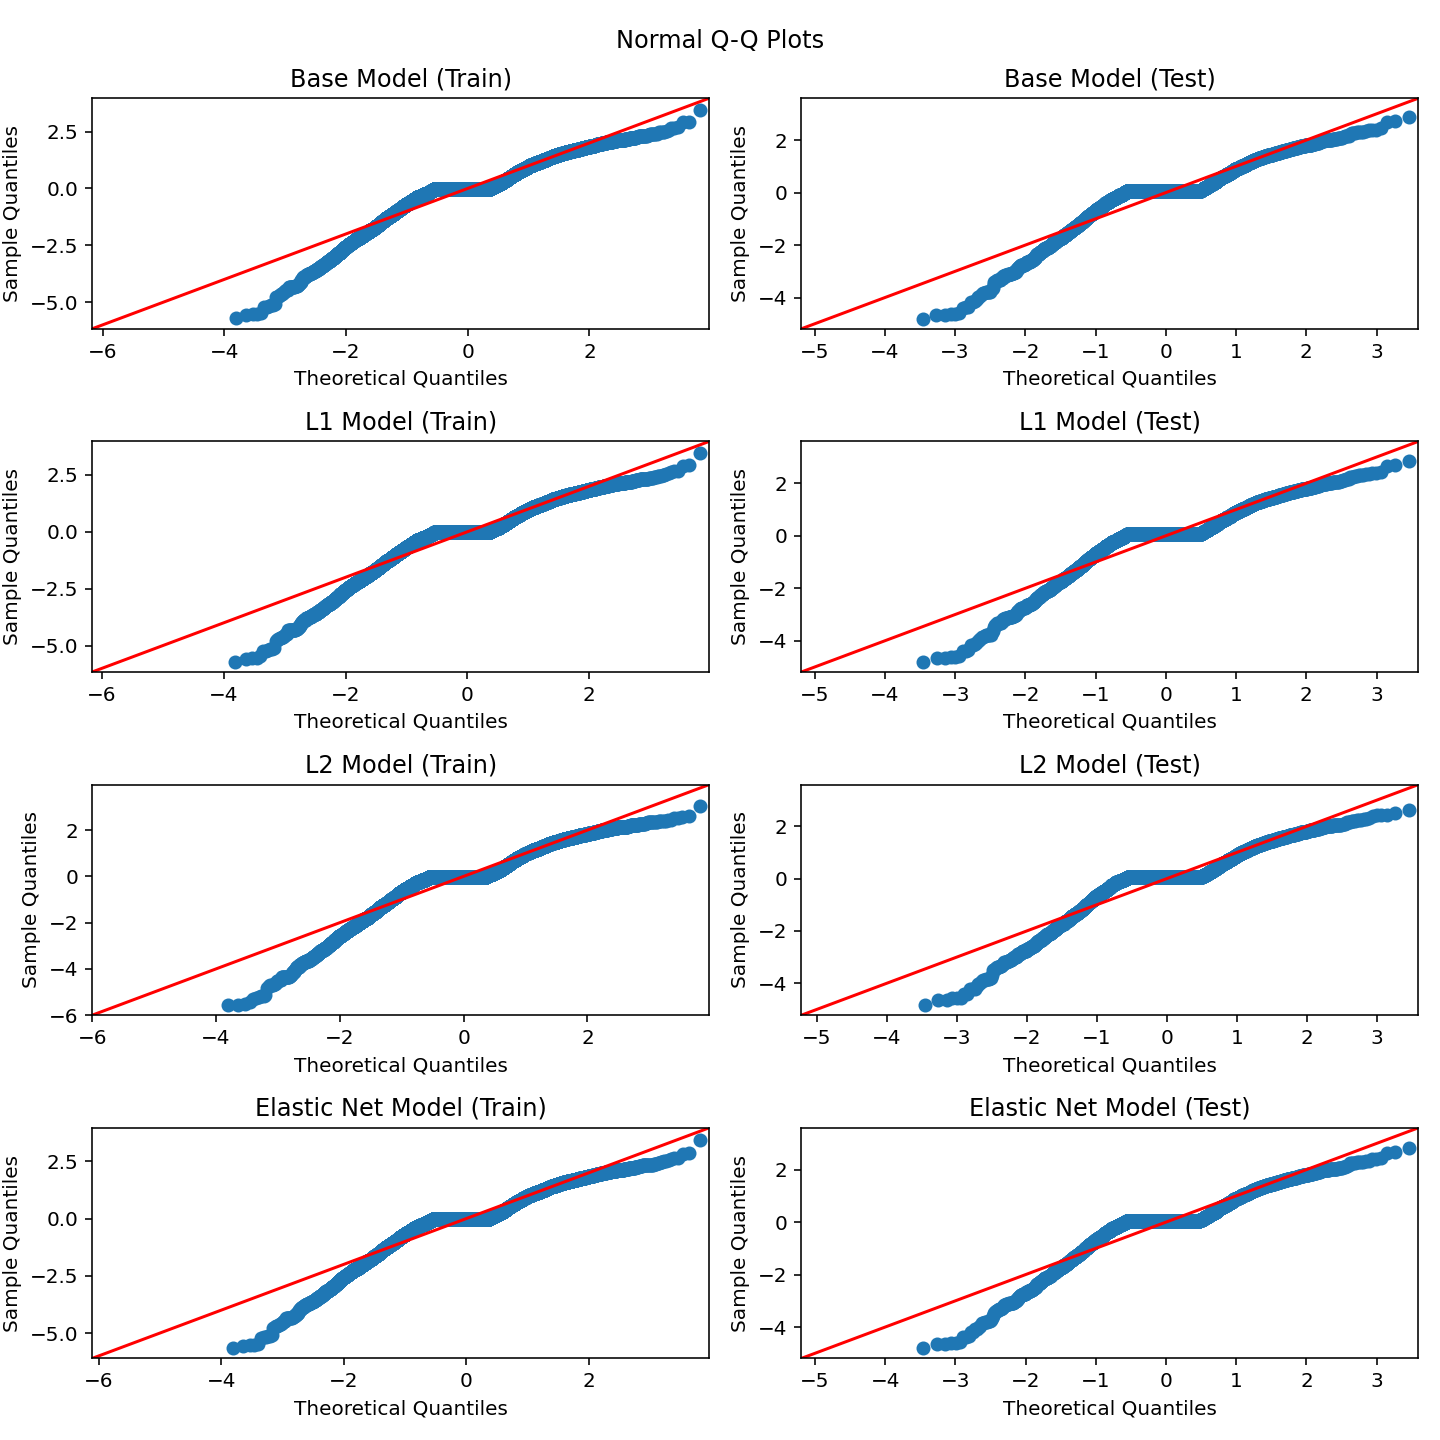
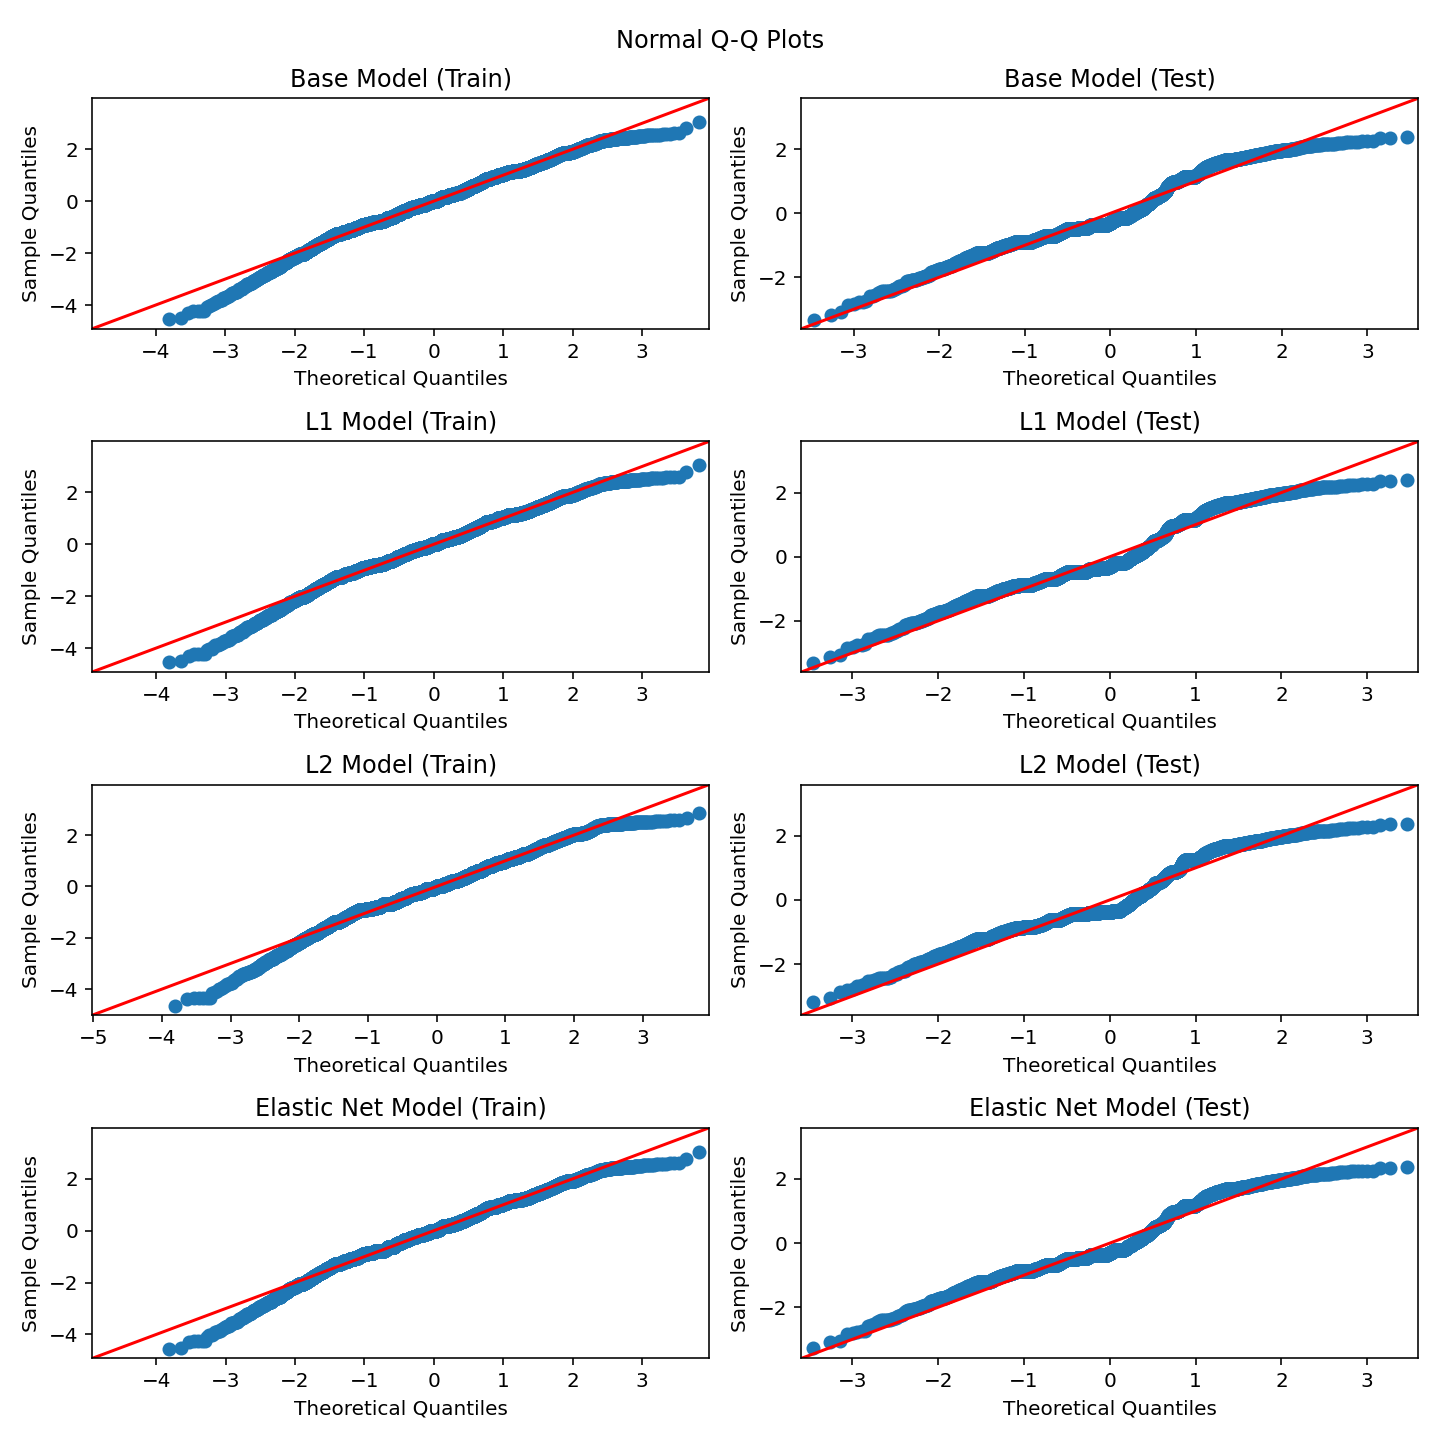
refined data ingestion

diff --git a/Christopher/model_preglucose.py b/Christopher/model_preglucose.py
@@ -4,6 +4,7 @@ import numpy as np
 import os
 from pathlib import Path
 from sklearn.preprocessing import MinMaxScaler, StandardScaler
+import datetime
 
 # import final_data from directory final_data
 base_path = Path("final_project_CPE608").parent
@@ -162,26 +163,76 @@ def gradient_descent(X, w, y, obFuncType='mse', lam=0, rho=0, alpha=0.01, tol=1e
 all_glucose_cols = np.arange(58, 65).astype(str)
 pre_glucose_cols = np.arange(58, 65, 2).astype(str)
 
+
 final_data['datetime'] = pd.to_datetime(final_data['Date'] + ' ' + final_data['Time'], errors='coerce')
-#final_data['datetime'].unique() #14741 unique observations
+
 final_data = pd.pivot_table(final_data, index=['PATIENT_ID', 'datetime'], columns='Code', values='Value')
+#final_data = pd.pivot_table(final_data, index=['PATIENT_ID', 'Date', 'Time'], columns='Code', values='Value')
+
+# convert to time and drop invalid time
+#final_data['Time'] = pd.to_datetime(final_data['Time'], errors='coerce').dropna().apply(lambda x: x.time()) # drop NaT
+
+"""
+# compute the mean of each code by Patient and Day
+pd.pivot_table(final_data.drop(['datetime'], axis=1), 
+               index=['PATIENT_ID', 'Date', 'Time'],
+               columns='Code', 
+               values='Value').reset_index().drop('Time', axis=1).groupby(['PATIENT_ID', 'Date']).agg(np.mean, axis=0)
+"""
+
+"""
+final_data = pd.pivot_table(final_data, index=['PATIENT_ID', 'Date', 'Time'], columns='Code', values='Value').fillna(
+    pd.pivot_table(final_data.drop(['datetime'], axis=1), 
+                   index=['PATIENT_ID', 'Date', 'Time'],
+                   columns='Code', 
+                   values='Value').reset_index().drop('Time', axis=1).groupby(['PATIENT_ID', 'Date']).agg(np.mean, axis=0)
+    ).sort_index(ascending=True)
+"""
+
+final_data = final_data.fillna(
+    final_data.groupby(['PATIENT_ID']).agg(np.mean, axis=0)
+    ).sort_index(ascending=True)
+
+
+#final_data = final_data.reset_index()
+
+final_data.columns = final_data.columns.astype(str)
 
 # fill missing recordings with the mean of the code
-final_data = final_data.fillna(final_data.mean())
+#final_data = final_data.fillna(final_data.mean())
+
 
 # create target variable
-final_data.columns = final_data.columns.astype(str)
-#final_data['mean'] = final_data[['58', '59', '60', '61', '62', '63']].mean(axis=1)
-final_data['mean'] = final_data[pre_glucose_cols].mean(axis=1)
-final_data['target'] = final_data['mean'].shift(-1) 
-final_data = final_data.dropna()
+#final_data.columns = final_data.columns.astype(str)
+#final_data['mean'] = final_data[['58', '59', '60', '61', '62', '63']].mean(axis=1) # average of all pre/post glucose measurements
+final_data['mean'] = final_data[pre_glucose_cols].mean(axis=1) # average of only pre glucose measuremments
+
+final_data['target'] = final_data['mean'].shift(-1)  # lag across all patients
+#final_data['target'] = final_data.groupby(['PATIENT_ID', 'Date'])['mean'].shift(-1)  # lag across each patient
+
+final_data = final_data.fillna(final_data.mode().loc[0])
+
+
+
+#final_data = final_data.dropna()
+
+
+# drop rows where target is N/A (no measurements)
+#final_data = final_data.drop(final_data[final_data['target'].isna()].index, axis=0)
 
 # create the training and target columns 
-final_data = final_data.sort_values(by='datetime', ascending=True)
+#final_data = final_data.sort_values(by='datetime', ascending=True)
 #X = final_data.drop(['58', '59', '60', '61', '62', '63', 'mean', 'target'], axis=1)
-
 X = final_data.drop(np.insert(pre_glucose_cols, -1, ['mean', 'target']), axis=1)
 y = final_data['target']
+
+
+
+# DRAFT
+#drop_X_na_indices = X[X.isna().all(axis=1)].index
+#X = X.drop(drop_X_na_indices, axis=0)
+#y = y.drop(drop_X_na_indices)
+
 
 # split data into train-test split
 from sklearn.model_selection import train_test_split
@@ -336,6 +387,7 @@ coeff_df.index = X_train.columns
 coeff_df.columns = ['Base Model', 'L1 Model', 'L2 Model', 'Elastic Net Model']
 coeff_df.to_csv(output_dir / 'opt_coefficients.csv')
 
+"""
 ################ CHECKS ONLY ########################################
 # check against sklearn ridge regression
 from sklearn.linear_model import Ridge
@@ -355,6 +407,7 @@ clf = Lasso(alpha=.01)
 clf.fit(X, y)
 Lasso()
 print(f"Sklearn lasso coefficients: {clf.coef_}")
+"""
 
 #######################Diagnostic Plots##############################
 